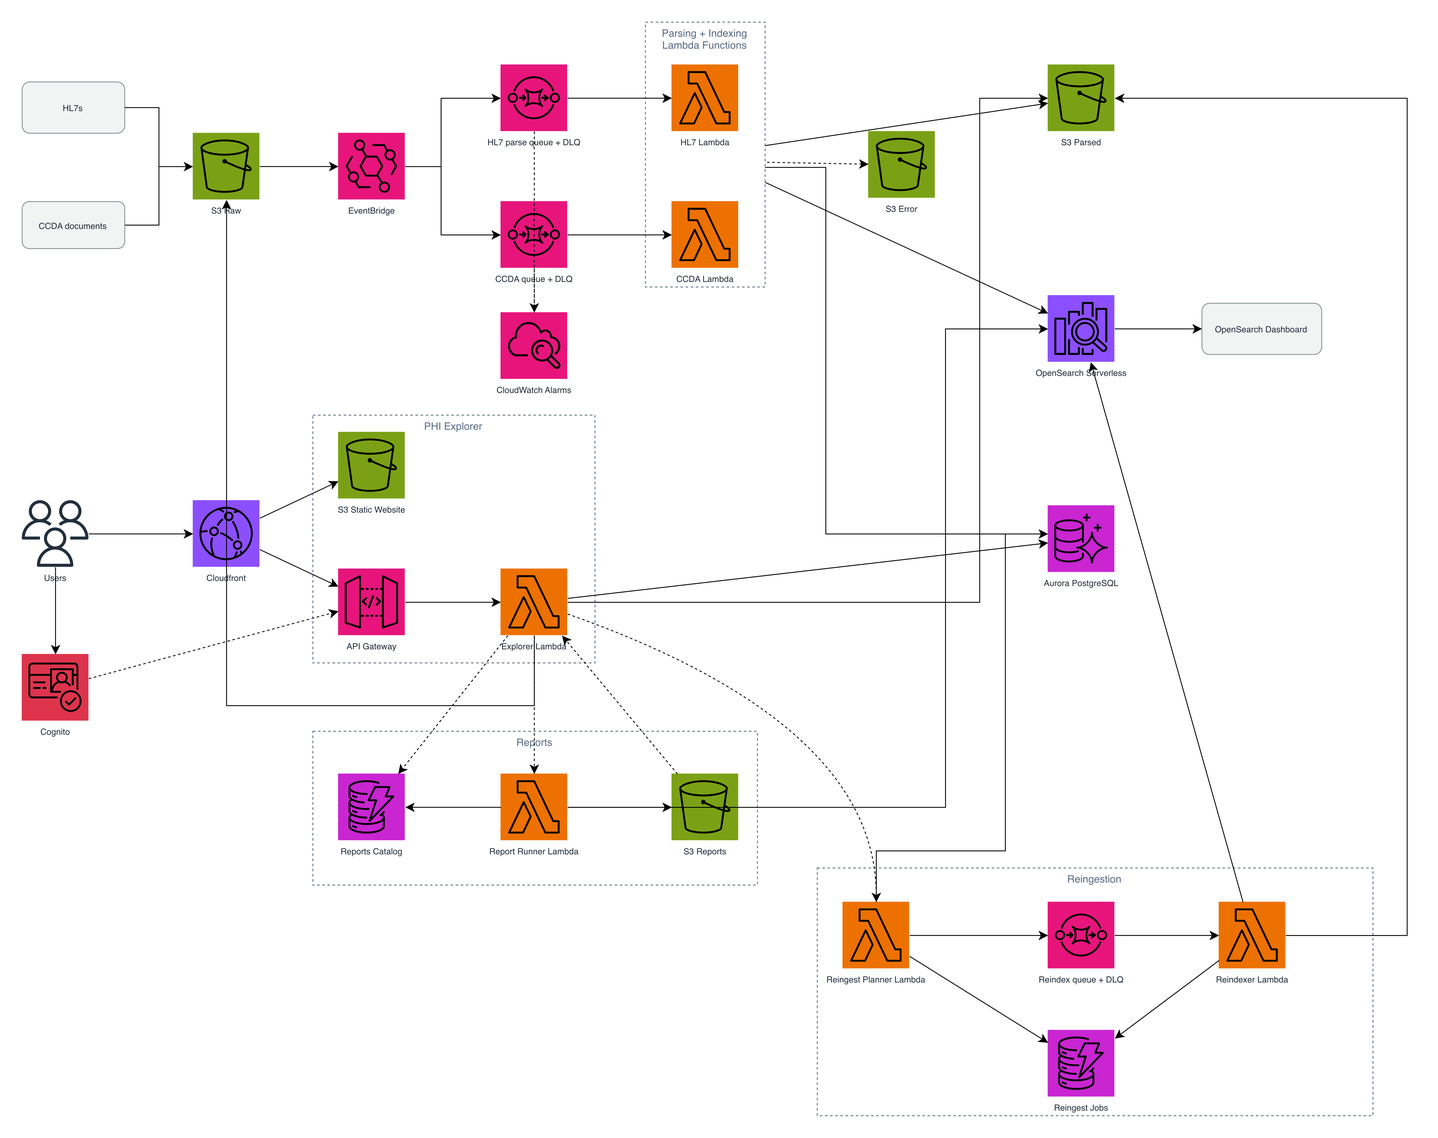
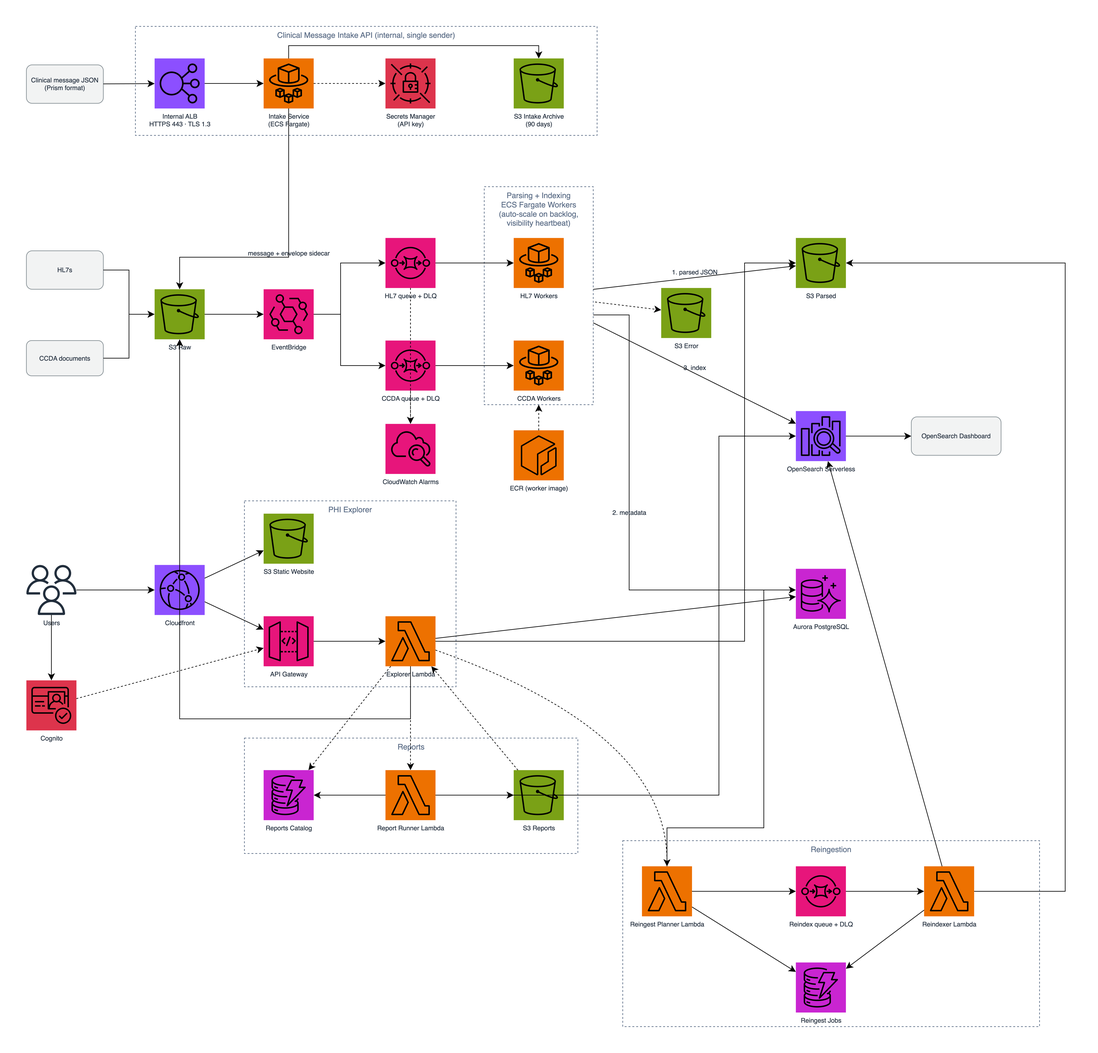
docs: intake API coverage, corrected limits, expanded known limitations, v5 diagram

diff --git a/README.md b/README.md
@@ -18,7 +18,7 @@ A private, serverless AWS ingestion platform for parsing, indexing, and tracking
 
 # Overview
 
-Manifest MedEx Data Quality Platform is an AWS CDK application that creates separate HL7 v2 and CCDA ingestion lanes plus an authenticated, same-origin clinical-message explorer. New objects in a private, versioned Amazon S3 raw-data bucket are routed through Amazon EventBridge and format-specific Amazon SQS queues to two Amazon ECS on AWS Fargate ingestion services, one per format. Each service's workers parse their input, writes deterministic JSON to parsed S3, indexes a query-oriented projection in Amazon OpenSearch Serverless, and upserts document-location metadata through the Amazon Aurora PostgreSQL Data API. An isolated explorer Lambda serves Cognito-authorized metadata and bounded body reads to a React frontend hosted in private S3 behind CloudFront Origin Access Control.
+Manifest MedEx Data Quality Platform is an AWS CDK application that creates separate HL7 v2 and CCDA ingestion lanes plus an authenticated, same-origin clinical-message explorer. New objects in a private, versioned Amazon S3 raw-data bucket are routed through Amazon EventBridge and format-specific Amazon SQS queues to two Amazon ECS on AWS Fargate ingestion services, one per format. Each service's workers parse their input, writes deterministic JSON to parsed S3, indexes a query-oriented projection in Amazon OpenSearch Serverless, and upserts document-location metadata through the Amazon Aurora PostgreSQL Data API. An optional, internal Prism-compatible intake API accepts the same JSON senders post to Prism today and feeds it into the same pipeline. An isolated explorer Lambda serves Cognito-authorized metadata and bounded body reads to a React frontend hosted in private S3 behind CloudFront Origin Access Control.
 
 The design keeps the raw object as the complete source of truth while exposing a deliberately bounded search projection for supplied dashboard requirements. It emphasizes private networking, encryption, least-privilege access, deterministic retries, retained storage, and diagnostics that do not reveal clinical content or identifiers.
 
@@ -39,6 +39,7 @@ This repository is an implementation prototype. It does not establish HL7 profil
 | Routing | [Amazon EventBridge](https://aws.amazon.com/eventbridge/) | Routes new objects by format prefix |
 | Buffering | [Amazon SQS](https://aws.amazon.com/sqs/) | Isolated processing queues and dead-letter queues |
 | Ingestion compute | [Amazon ECS on AWS Fargate](https://aws.amazon.com/fargate/) | ARM64 queue workers for HL7 and CCDA, scaled on queue backlog |
+| Message intake (optional) | Application Load Balancer (internal), ECS on Fargate, AWS Secrets Manager | Prism-compatible HTTPS intake API with one API-key sender |
 | Compute | [AWS Lambda](https://aws.amazon.com/lambda/) | Python 3.14 ARM64 explorer API, reports, and reingestion |
 | Image build | [AWS CodeBuild](https://aws.amazon.com/codebuild/), Amazon ECR | Builds the worker image during `deploy.sh`; no local Docker needed |
 | Web and API | React, Vite, TypeScript, CloudFront, HTTP API | Same-origin clinical-message explorer and API proxy |
@@ -77,6 +78,8 @@ Runtime dependencies are hash-pinned in `lambda-requirements.txt`. CDK dependenc
 │   ├── worker.py                  # SQS polling supervisor with graceful SIGTERM shutdown
 │   ├── Dockerfile                 # ARM64 worker image (built by CodeBuild)
 │   └── requirements.txt           # Exact worker-only dependencies (boto3)
+├── intake/
+│   └── server.py                  # Optional Prism-compatible intake API (auth, validation, S3 writes)
 ├── infra/worker-image-build.yaml  # ECR repository + CodeBuild project, deployed by deploy.sh
 ├── web/                           # React/Vite/TypeScript authenticated explorer
 │   ├── src/                       # OIDC, API client, query, and UI source
@@ -91,7 +94,7 @@ Runtime dependencies are hash-pinned in `lambda-requirements.txt`. CDK dependenc
                                       # Delivered query-path parity check
 ```
 
-The Lambda artifact and the worker image contain the runtime `src` modules and exact runtime dependencies. Tests, tools, caches, all of `web/`, `src/stack.py`, and `src/config.py` are excluded from both local and Docker fallback bundles.
+The Lambda artifact and the worker image contain the runtime `src` modules and exact runtime dependencies; the worker image also contains `intake/`, which the optional intake service runs. Tests, tools, caches, all of `web/`, `src/stack.py`, and `src/config.py` are excluded from both local and Docker fallback bundles.
 
 ## HL7 v2 processing
 
@@ -152,7 +155,7 @@ CREATE INDEX IF NOT EXISTS document_metadata_format_ingested_document_idx
 ON document_metadata (source_format, ingested_time DESC, document_id DESC);
 ```
 
-For an existing production table, normal `CREATE INDEX` can block writes. Run the equivalent `CREATE INDEX CONCURRENTLY IF NOT EXISTS` statements as a separately reviewed, one-off maintenance operation instead. `CONCURRENTLY` is intentionally absent from Lambda initialization because PostgreSQL does not permit it inside the Data API's implicit transaction.
+For an existing production table, normal `CREATE INDEX` can block writes. Run the equivalent `CREATE INDEX CONCURRENTLY IF NOT EXISTS` statements as a separately reviewed, one-off maintenance operation instead. `CONCURRENTLY` is intentionally absent from schema initialization (run by the ingestion workers) because PostgreSQL does not permit it inside the Data API's implicit transaction.
 
 ## Infrastructure and security
 
@@ -168,7 +171,8 @@ The stack creates:
 - Cognito Hosted UI, one public PKCE app client, and a Cognito-authorized HTTP API with no default stage.
 - One CloudFront distribution using private S3 OAC for static assets and an uncached `/api/*` behavior for HTTP API.
 - An isolated, no-NAT VPC with rejected-traffic flow logs.
-- S3 and DynamoDB gateway endpoints plus private OpenSearch Serverless, RDS Data API, Lambda, SQS, ECR (API and Docker), and CloudWatch Logs interface endpoints.
+- S3 and DynamoDB gateway endpoints plus private OpenSearch Serverless, RDS Data API, Lambda, SQS, ECR (API and Docker), and CloudWatch Logs interface endpoints (and Secrets Manager when the intake API is enabled).
+- Optional (`enable_intake`): an internal HTTPS Application Load Balancer, a Fargate intake service, a Secrets Manager API key, and a private request-archive bucket. See [Optional message intake API](#optional-message-intake-api).
 - One private Aurora PostgreSQL 16.8 Serverless v2 writer with 2–16 ACU (configurable), 35-day backups, deletion protection, Data API, IAM database authentication, KMS encryption, and retained storage.
 - One private OpenSearch Serverless `SEARCH` collection with `hl7-messages-v1` and `ccda-documents-v1`.
 - Queue-age, dead-letter-queue, and worker-at-maximum-tasks alarms for both formats, plus an Aurora capacity alarm.
@@ -187,7 +191,7 @@ Each format has its own ECS service. A task runs a small supervisor (`worker/wor
 
 | Setting | HL7 | CCDA | Why |
 | --- | --- | --- | --- |
-| Task size | 1 vCPU / 2 GB | 1 vCPU / 8 GB | Measured: HL7 ~420 MB per task; CCDA ~18-20x the file size per document while parsing (16 MB → ~300 MB), so four ~100 MB CCDAs fit in 8 GB |
+| Task size | 1 vCPU / 2 GB | 1 vCPU / 8 GB | Measured: HL7 ~420 MB per task; CCDA ~18-20x the file size per document while parsing (16 MB → ~300 MB, 100 MB → ~2 GB). Typical 20-30 MB CCDAs fit easily; four ~100 MB CCDAs on one task at the same moment can exceed 8 GB (see Known limitations) |
 | Largest file | 512 MiB (streamed in 500-message chunks) | 110 MiB | Per-lane `*_max_object_mb`; MX sends 20-30 MB CCDAs routinely and up to ~100 MB longitudinal CCDAs |
 | Worker processes per task | 8 | 4 | HL7 is I/O-bound; CCDA parsing is CPU-bound at 4 |
 | Messages per receive | 10 | 1 | CCDA documents are large; one at a time bounds memory |
@@ -517,7 +521,8 @@ A sanitized error object is attempted for every failure, but failure reporting i
 
 Review these signals together:
 
-- HL7 and CCDA worker logs (`/ecs/<stack>-hl7-worker`, `/ecs/<stack>-ccda-worker`): `batch_failed` and `receive_failed` events.
+- HL7 and CCDA worker logs (`/ecs/<stack>-hl7-worker`, `/ecs/<stack>-ccda-worker`): `batch_failed` and `receive_failed` events; `visibility_extended` shows a long file still being processed.
+- With the intake API: its log group (`/ecs/<stack>-intake`: `intake_accepted` and `intake_rejected` events with status codes, sizes, and a hashed message reference, never bodies or identifiers), the load balancer's 4xx/5xx and target-health metrics, and the intake service's running task count.
 - ECS running task counts (Container Insights) and Aurora `ServerlessDatabaseCapacity`.
 - Queue age and visible-message counts.
 - DLQ visible-message counts.
@@ -526,7 +531,7 @@ Review these signals together:
 - OpenSearch indexing results.
 - Aurora Data API errors and metadata rows.
 
-The stack creates CloudWatch alarms for queue age, DLQ content, and workers at maximum tasks for each format, plus the reindex queue and Aurora capacity. Alarm notification actions are not configured; connect them to an approved notification or incident-management path before production use.
+The stack creates CloudWatch alarms for queue age, DLQ content, and workers at maximum tasks for each format, plus the reindex queue and Aurora capacity. There are no alarms for the intake API yet. Alarm notification actions are not configured; connect them to an approved notification or incident-management path before production use.
 
 ## Common problems
 
@@ -570,22 +575,55 @@ The application limits raw objects per lane (HL7 512 MiB, CCDA 110 MiB) and bulk
 - Public Dashboards without an explicit role.
 - A Dashboard role from a different account.
 - Invalid Fargate CPU/memory pairs, `min_tasks` above `max_tasks`, or Aurora ACU values that are out of order or not multiples of 0.5.
+- `enable_intake` without `intake_source_cidrs` or `intake_certificate_arn`; a source range that is not private IPv4 or is wider than `/16`; an `intake_sender_id` that is not lowercase letters, digits, and hyphens.
 
 Correct the context values rather than bypassing validation.
 
 ## Known limitations
 
+**Parsing and data**
+
 - The HL7 `ROOT` projection is not a complete HL7 message representation.
 - The CCDA `CD` projection is not a complete clinical-document representation.
 - No HL7 message-profile or conformance validation is implemented.
 - No CCDA XSD, Schematron, or template-conformance validation is implemented.
+- Old versions are not rejected: HL7 below v2.2 and CCDA documents before R2 are parsed like any other input.
 - Matched customer source/output parity testing has not been established.
+- HL7 timestamps without an offset are interpreted as UTC.
+- Duplicates are collapsed only within one file. Document IDs include the S3 key, so the same message in two files, or a file re-uploaded under a different key, becomes two documents.
+- HL7 files and multi-document CCDA files must be UTF-8.
 - Existing raw objects are not backfilled automatically.
+
+**Ingestion and scale**
+
+- One file is processed by one worker. A very large file is not split across workers, so it takes longer than the same messages spread over several files.
+- Visibility is extended for up to 6 hours; a single file that takes longer is redelivered and processed again (with the same document IDs).
+- CCDA memory: a ~100 MB CCDA needs about 2 GB while parsing. Four of them on the same task at the same moment can exceed the 8 GB task and stop it; the messages are retried. If very large CCDAs arrive together often, set `ccda_task_cpu: 2048` with `ccda_task_memory: 12288` (12 GB needs 2 vCPU on Fargate), or `ccda_workers: 3`.
+- One projected document can still exceed an OpenSearch request limit on its own (see Common problems).
+- Throughput is ultimately bounded by the account's OpenSearch Serverless capacity limit and `aurora_max_acu`, not only by worker count.
+- Capacity and cost have not been validated against production traffic.
+
+**Intake API (optional)**
+
+- One sender and one API key. A bearer API key is weaker than mutual TLS (the recommended upgrade). Rotating the key needs the sender to switch at the same time, since only one key is valid.
+- A `200` response means the message was stored, not that it parsed. Parse failures afterwards are not reported back to the sender; they appear in the error bucket, worker logs, and DLQ.
+- Only `POST /prism/ods/clinical-message` (and `/clinical-message`) and an authenticated status check are implemented; other Prism endpoints are not.
+- Requests are capped at `intake_max_request_mb` (150 MB). The load balancer accepts chunked uploads and forwards them with a `Content-Length`; a client connecting to the service directly (bypassing it) must send `Content-Length`. Each request reserves three times its size from a per-task budget of one third of the task memory (about 1.3 GiB at the default 4 GB), so a task handles roughly four 100 MB requests at once; others wait up to 30 seconds, then get `503` ("Busy, retry later").
+- Envelope fields (patient IDs, MPI ID, facility, and the rest) are merged into the parsed JSON and the search index, not into the Aurora `document_metadata` table, so the explorer's SQL console cannot filter on them. Files dropped directly into S3 have no envelope fields.
+- Free-form `otherAttributes` over 200 values or 5 levels are dropped.
+- A re-sent message replaces the earlier one in the order the workers finish them, not the order they were sent. If the first copy fails and its retry finishes after the re-send, the older content wins. Re-send again to correct it.
+- The request archive keeps a full copy of every accepted request, including PHI, for `intake_archive_retention_days` (90).
+- The load balancer is internal: senders need a private network path (VPN, Direct Connect, or transit gateway) and a DNS name for its certificate. A self-signed certificate is for testing only.
+- No intake-specific CloudWatch alarms, WAF, or per-sender rate limiting.
+
+**Security and operations**
+
 - Alarm notification actions are not configured.
 - Aurora credential rotation requires an explicitly approved maintenance process.
 - Explorer authentication does not segment records by tenant or facility; all user-pool members can read all documents.
 - The SQL console intentionally uses the generated Aurora administrative secret; authenticated SQL can modify or destroy database objects and data.
-- Production identity federation, WAF policy, capacity, and cost have not been validated against production requirements or traffic.
+- Production identity federation and WAF policy have not been validated against production requirements.
+- Changes made outside CDK to resources the stack owns are not tracked and can be overwritten on the next deploy. Make changes in `config.yaml` or the CDK code instead.
 
 # Data and security rules
 

diff --git a/DEPLOYMENT.md b/DEPLOYMENT.md
@@ -65,7 +65,7 @@ Requirements for the subnets:
 - **Private** — no route to an internet gateway. A NAT route is tolerated but not needed; every AWS call goes through VPC endpoints.
 - **Two or more Availability Zones** — Aurora requires a subnet group spanning at least two AZs; one private subnet per AZ (typically three) is the expected layout. The deploy fails validation otherwise.
 - **Free IP space** — the stack creates about six endpoint network interfaces per subnet plus one per running ECS ingestion task (up to 20 at the default maximums) and per Lambda. `/24` or larger per subnet is comfortable.
-- **VPC endpoints** — the stack needs endpoints for S3, DynamoDB, RDS Data API, SQS, Lambda, ECR API (`ecr.api`), ECR Docker (`ecr.dkr`), CloudWatch Logs (`logs`), and OpenSearch Serverless. `deploy.sh` inspects the VPC before deploying: endpoints that already exist are reused, except ones this stack created on an earlier deploy (identified by their `aws:cloudformation:stack-name` tag), which stay managed by the stack. For reused endpoints the stack adds HTTPS ingress for its Lambdas and ingestion workers to the endpoint's security group; missing ones are created in your subnets. Existing endpoints must have a security group attached, and their endpoint policies must allow the relevant actions from this account (the stack does not modify policies on endpoints it does not own). To override detection, set `existing_endpoints` in `config.yaml`.
+- **VPC endpoints** — the stack needs endpoints for S3, DynamoDB, RDS Data API, SQS, Lambda, ECR API (`ecr.api`), ECR Docker (`ecr.dkr`), CloudWatch Logs (`logs`), and OpenSearch Serverless, plus Secrets Manager (`secretsmanager`) when the intake API is enabled. `deploy.sh` inspects the VPC before deploying: endpoints that already exist are reused, except ones this stack created on an earlier deploy (identified by their `aws:cloudformation:stack-name` tag), which stay managed by the stack. For reused endpoints the stack adds HTTPS ingress for its Lambdas and ingestion workers to the endpoint's security group; missing ones are created in your subnets. Existing endpoints must have a security group attached, and their endpoint policies must allow the relevant actions from this account (the stack does not modify policies on endpoints it does not own). To override detection, set `existing_endpoints` in `config.yaml`.
 
   **Detection happens only in `deploy.sh`.** The CDK app makes no AWS calls during synthesis, so it cannot see what is already in the VPC; it creates every endpoint not listed in `existing_endpoints`. Deploying with `cdk deploy` directly into a VPC that already has any of these endpoints therefore fails partway through and rolls back: a second S3 or DynamoDB gateway endpoint conflicts with the existing route on the route table, and a second SQS, Lambda, RDS Data API, ECR, or Logs interface endpoint is rejected because its private DNS name is already taken. Detection also runs only at deploy time, so if endpoints are added to or removed from the VPC later, run `./deploy.sh` again. If you deploy without the script anyway, pass the existing endpoints yourself (see "Manual deployment" under Reference).
 
@@ -140,6 +140,7 @@ When it succeeds it prints the outputs you need next:
 | `UserPoolClientId`, `UserPoolHostedUiDomain` | Sign-in configuration (informational) |
 | `RawBucketName` | Where to upload HL7 and CCDA files (step 4) |
 | `OpenSearchCollectionName` | For finding the Dashboards URL |
+| `IntakeLoadBalancerDnsName`, `IntakeApiKeySecretArn`, `IntakeArchiveBucketName` | Only with `enable_intake`: where senders post, the API key, and the request archive |
 
 All outputs are also saved to `cdk-outputs.json`.
 
@@ -184,7 +185,11 @@ Senders that today post Prism's **Clinical Message Intake** JSON (`POST /prism/o
    ```
    Add `-k` only when testing with a self-signed certificate.
 
+**Testing.** The load balancer only accepts connections from `intake_source_cidrs`, so test from a host on the sender network or inside the VPC (with a self-signed certificate, skip certificate verification, e.g. `curl -k`). It is not reachable from the internet.
+
 **Behavior to know:**
+- A `200` means the message and envelope are stored in S3. Parsing happens afterwards in the normal pipeline; a message that fails to parse shows up in the error bucket and DLQ, not in the API response.
+- Chunked uploads are accepted; the load balancer forwards them with a `Content-Length`.
 - Required fields (as in Prism's spec): `sourceMessageId`, `messageDate`, `clinicalMessageType` (`HL7V2` or `CCDA`), `sourceFacilityId`, `patientId`, `patientIdAa`, `contents`. Missing or invalid ones get `400`. Requests over `intake_max_request_mb` get `413`. A storage problem returns `503` with `Retry-After`, so the sender retries.
 - If `contents` has both, the `PROCESSED` entry is used (Prism's recommendation), otherwise `RAW`.
 - A re-sent message (same facility, message date, and `sourceMessageId`) **replaces** the earlier one, as in Prism.
@@ -271,6 +276,7 @@ Quick checks (the detailed list is under Reference → "Verify processing"):
 - Everything runs in an isolated VPC with no NAT gateway; Lambdas and ECS tasks reach AWS services through VPC endpoints. There is no public database or search endpoint.
 - The S3 buckets, Aurora cluster, OpenSearch collection, DynamoDB tables, KMS key, and Cognito pool are set to **RETAIN** on stack deletion. If you are tearing the system down for good, delete them by hand after `cdk destroy`. Aurora deletion protection is on in every environment, so it must be turned off explicitly before the cluster can be deleted. The `<stack>-worker-build` companion stack is not retained; delete it after the main stack.
 - `enable_public_dashboard` exposes only the Dashboards endpoint (IAM-authenticated) and is refused outside the `dev` environment. For a production posture, reach Dashboards through a VPN or VPC path instead.
+- **Make changes through `config.yaml` or the CDK code, not the console.** Edits made directly to resources the stack owns (security groups, endpoints, task definitions, and so on) are not tracked: `cdk drift` reports only some resource types, and the next deploy can overwrite them. Resources the stack does not own, such as a customer VPC and its existing endpoints, are referenced rather than modified.
 - Context flags passed to `cdk deploy` do not persist between runs; `deploy.sh` re-applies them from `config.yaml` every time, and also detects existing VPC endpoints, which is why it is the only supported deployment path.
 
 ## Reference
@@ -352,7 +358,7 @@ aws ec2 describe-vpc-endpoints --filters Name=vpc-id,Values=<vpc-id> \
   --profile <approved-aws-profile>
 ```
 
-Only `com.amazonaws.<region>.s3`, `dynamodb`, `rds-data`, `sqs`, `lambda`, `ecr.api`, `ecr.dkr`, and `logs` matter. For example, a VPC with an S3 gateway endpoint and an SQS interface endpoint becomes:
+Only `com.amazonaws.<region>.s3`, `dynamodb`, `rds-data`, `sqs`, `lambda`, `ecr.api`, `ecr.dkr`, `logs`, and (with the intake API) `secretsmanager` matter. For example, a VPC with an S3 gateway endpoint and an SQS interface endpoint becomes:
 
 ```bash
 uv run cdk deploy \
@@ -482,7 +488,7 @@ This stack is not a free-tier architecture. Major recurring cost drivers include
 
 - OpenSearch Serverless OCUs and managed storage; the classic model used here does not scale to zero.
 - Aurora Serverless v2 ACUs, storage, backup retention, and I/O.
-- Six interface VPC endpoints (plus the OpenSearch Serverless endpoint) across the configured Availability Zones.
+- Six interface VPC endpoints (plus the OpenSearch Serverless endpoint, and a Secrets Manager endpoint with the intake API) across the configured Availability Zones, unless reused from an existing VPC.
 - ECS Fargate ingestion tasks: at least two tasks per format run at all times (at the defaults in us-west-2, about $58/month for HL7 and $89/month for CCDA, plus ~$85/month for the intake API if enabled: two 1 vCPU / 4 GB tasks and the internal load balancer), scaling with backlog.
 - Lambda duration and concurrency for the explorer, reports, and reingestion.
 - CodeBuild minutes and ECR storage for the worker image.
@@ -510,7 +516,7 @@ Requirements and behavior to plan around:
 | Facility for CCDA | Taken from the **key**: include a `participant=<facility UID>` path segment (see example). Without it, `sourceFacilityId` is empty and per-facility reports and filters exclude the document. |
 | Filenames | Free-form, but keep them non-identifying. Facility, message type, and MSH-7 date in the name are fine and useful for browsing. |
 | Ordering | Not guaranteed. Objects are processed by parallel consumers from a standard queue, so arrival order is not preserved. This does not affect counts or report results. |
-| Re-uploads | Safe. Document identity is derived from the object (bucket, key, version) so a re-drop of an unchanged object updates rather than duplicates. Note that a *changed* object body under a new version produces a new document. |
+| Re-uploads | Safe under the same key. Document identity is derived from bucket, key, and content, so re-dropping an unchanged file updates rather than duplicates. A *changed* body produces a new document, and the same content under a *different* key is a separate document. |
 | Throughput | Ingestion runs on ECS workers that scale with the queue backlog (2–10 tasks per format by default; see README "Ingestion workers"). For multi-million-object backfills, upload in batches and watch the queue-age and DLQ alarms rather than dropping everything at once; the queue absorbs bursts but end-to-end latency grows with backlog. |
 | Size | Objects over the lane limit (**HL7 512 MiB, CCDA 110 MiB**, configurable) are rejected (`failureCategory: object_too_large`; the error record includes `objectBytes` and `maxObjectBytes`) and reach the DLQ after five attempts. HL7 batches of any message count are processed in 500-message chunks, so there is no need to split them. One file is still handled by one worker, so many medium files finish sooner than one huge file. CCDAs up to ~100 MB, and files with several concatenated CCDAs, are supported. |
 | S3 console folders | Creating a "folder" in the S3 console adds a zero-byte key ending in `/`. Workers recognize these and skip them (logged as `record_skipped`, `reason: folder_marker`); they never reach the DLQ. |
